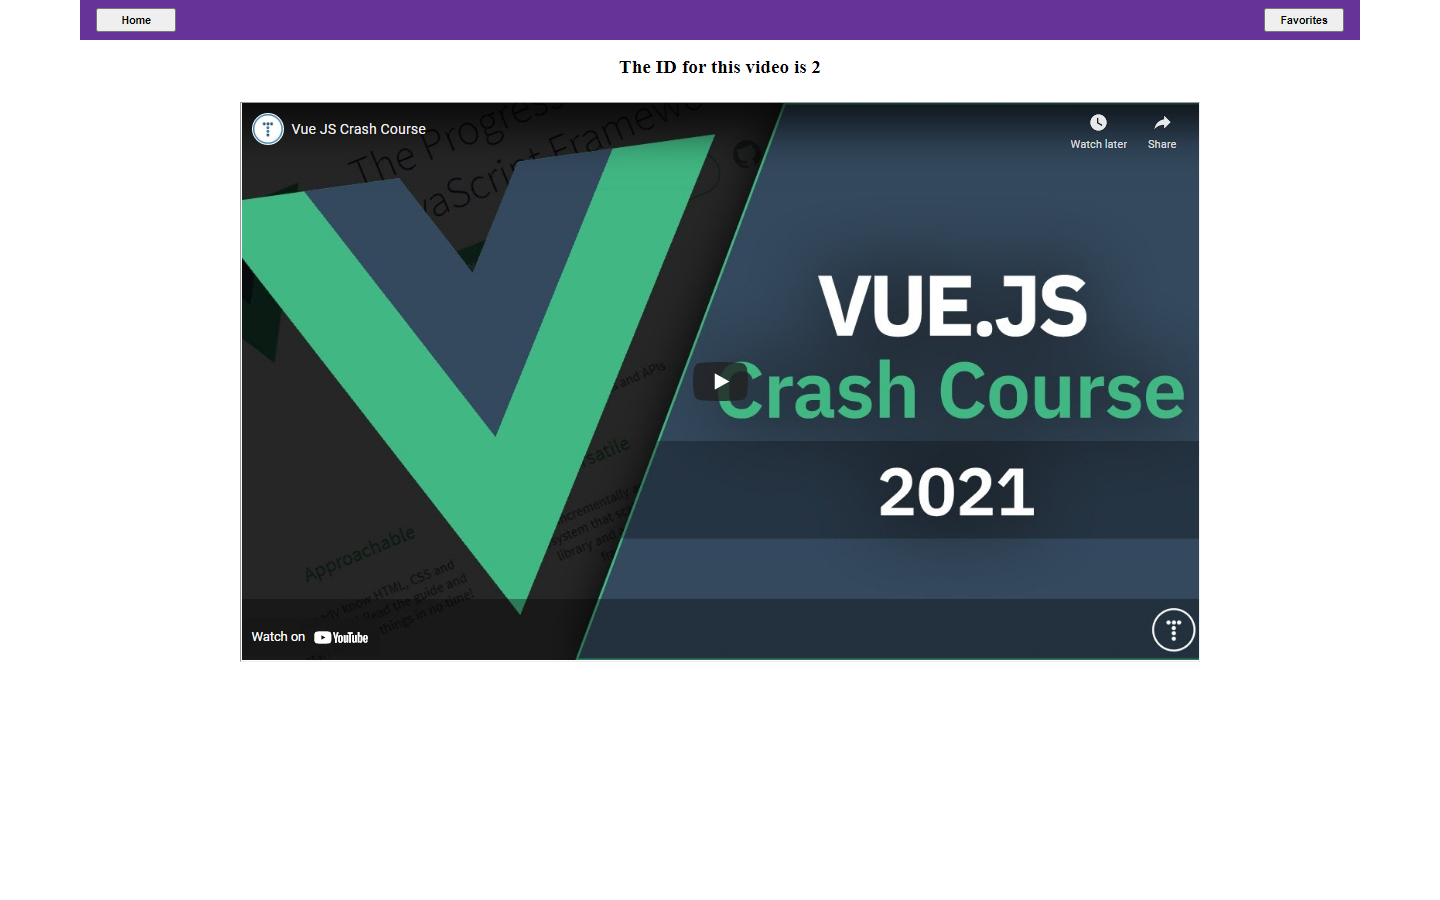
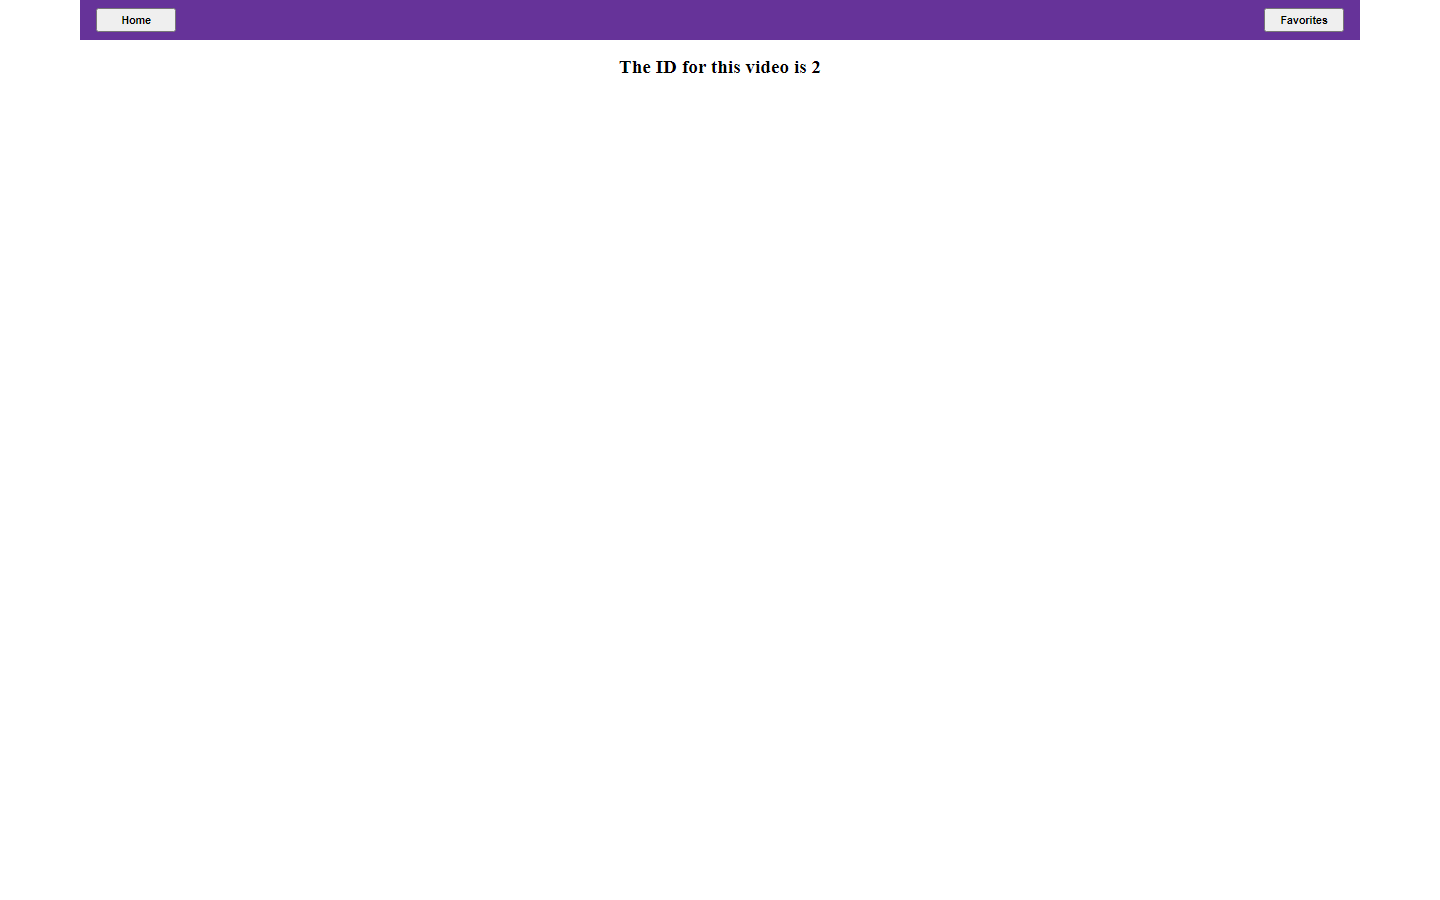
vuex version completed

diff --git a/src/views/Watch.vue b/src/views/Watch.vue
@@ -2,46 +2,29 @@
   <div class="main-container">
     <Header></Header>
     <h2>The ID for this video is {{ this.$route.query.id }}</h2>
-    <!-- Video 3 and 6 does not support embed, so I printed the youtube address on the screen instead -->
-    <h3 v-if="$route.params.videoid == 3">Go to: {{ this.videos[2].videoAddress }}</h3>
-    <h3 v-else-if="$route.params.videoid == 6">Go to: {{ this.videos[5].videoAddress }}</h3>
-    <!--  Other than video 3 and 6 will be embedded in this page because they support "embed".  -->
-    <div v-else id="video-payer">
-      <iframe :src="url"></iframe>
-    </div>
   </div>
 </template>
 
 <script>
 import Header from "../components/Header";
-import axios from "axios";
 
 export default {
   name: "Watch",
   components: {
     Header: Header
   },
-  methods: {
-    getWatch() {
-      for (let i = 0; i < this.videos.length; i++) {
-        if (this.videos[i].id === Number(this.$route.query.id)) {
-          let url = this.videos[i].videoAddress;
-          url = url.replace('watch?v=', 'embed/')
-          return url;
-        }
-      }
-    }
-  },
   data() {
     return {
-      videos: [],
       url: null
     }
   },
-  async mounted() {
-    const response = await axios.get("https://my-json-server.typicode.com/modanisa/bootcamp-video-db/videos");
-    this.videos = response.data;
-    this.url = this.getWatch();
+  computed: {
+    videos() {
+      return this.$store.state.videos
+    }
+  },
+  mounted() {
+    this.$store.dispatch("getVideos");
   }
 }
 </script>
@@ -51,14 +34,6 @@ export default {
   width: 1600px;
   height: 1100px;
   text-align: center;
-}
-#video-payer {
-  text-align: center;
-}
-iframe {
-  width: 1200px;
-  height: 700px;
-  margin-top: 10px;
 }
 
 h4 {

diff --git a/src/views/Favorites.vue b/src/views/Favorites.vue
@@ -13,7 +13,6 @@
 <script>
 import Header from "../components/Header";
 import FavoriteVideo from "../components/FavoriteVideo";
-import axios from "axios";
 
 export default {
   name: "Favorite",
@@ -21,20 +20,13 @@ export default {
     Header: Header,
     FavoriteVideo: FavoriteVideo
   },
-  data() {
-    return {
-      videos: []
-    }
-  },
   computed: {
     getFavorites() {
-      return this.videos.filter(n => n.favorite === true);
+      return this.$store.state.videos.filter(n => n.favorite === true);
     }
   },
-  async mounted() {
-    const response = await axios.get("https://my-json-server.typicode.com/modanisa/bootcamp-video-db/videos");
-    this.videos = response.data;
-    console.log(this.videos);
+  mounted() {
+    this.$store.dispatch("getVideos");
   }
 }
 </script>

diff --git a/src/views/Home.vue b/src/views/Home.vue
@@ -13,7 +13,6 @@
 <script>
 import Header from "../components/Header";
 import Video from "../components/Video";
-import axios from "axios";
 
 export default {
   name: "Home",
@@ -21,15 +20,13 @@ export default {
     Header: Header,
     Video: Video
   },
-  data() {
-    return {
-      videos: []
+  computed: {
+    videos() {
+      return this.$store.state.videos
     }
   },
-  async mounted() {
-    const response = await axios.get("https://my-json-server.typicode.com/modanisa/bootcamp-video-db/videos");
-    this.videos = response.data;
-    console.log(this.videos)
+  mounted() {
+    this.$store.dispatch("getVideos");
   }
 }
 </script>

diff --git a/src/store/store.js b/src/store/store.js
@@ -1,0 +1,28 @@
+import Vue from "vue";
+import Vuex from "vuex";
+import axios from "axios";
+
+Vue.use(Vuex);
+
+let url = 'https://my-json-server.typicode.com/modanisa/bootcamp-video-db/videos';
+const store = new Vuex.Store({
+    state: {
+        videos: []
+    },
+    getters: {},
+    actions: {
+        getVideos({ commit }) {
+            axios.get(url)
+                .then(response => {
+                    commit('setVideos', response.data);
+                });
+        }
+    },
+    mutations: {
+        setVideos(state, videos) {
+            state.videos = videos;
+        }
+    }
+});
+
+export default store;

diff --git a/src/main.js b/src/main.js
@@ -1,10 +1,12 @@
 import Vue from 'vue'
 import App from './App.vue'
 import router from "./router/router";
+import store from "./store/store";
 
 Vue.config.productionTip = false
 
 new Vue({
+  store,
   router,
   render: h => h(App),
 }).$mount('#app')

diff --git a/README.md b/README.md
@@ -1,4 +1,4 @@
-# Bootcamp Week 2 Assignment
+# Bootcamp Week 2 Assignment - Vuex Version
 
 There are 3 pages you need to design: main, favorite and watch page respectively. You need to use router for displaying the pages. When user clicks to the favorite button, you should
 use "bootcamp" as param.
